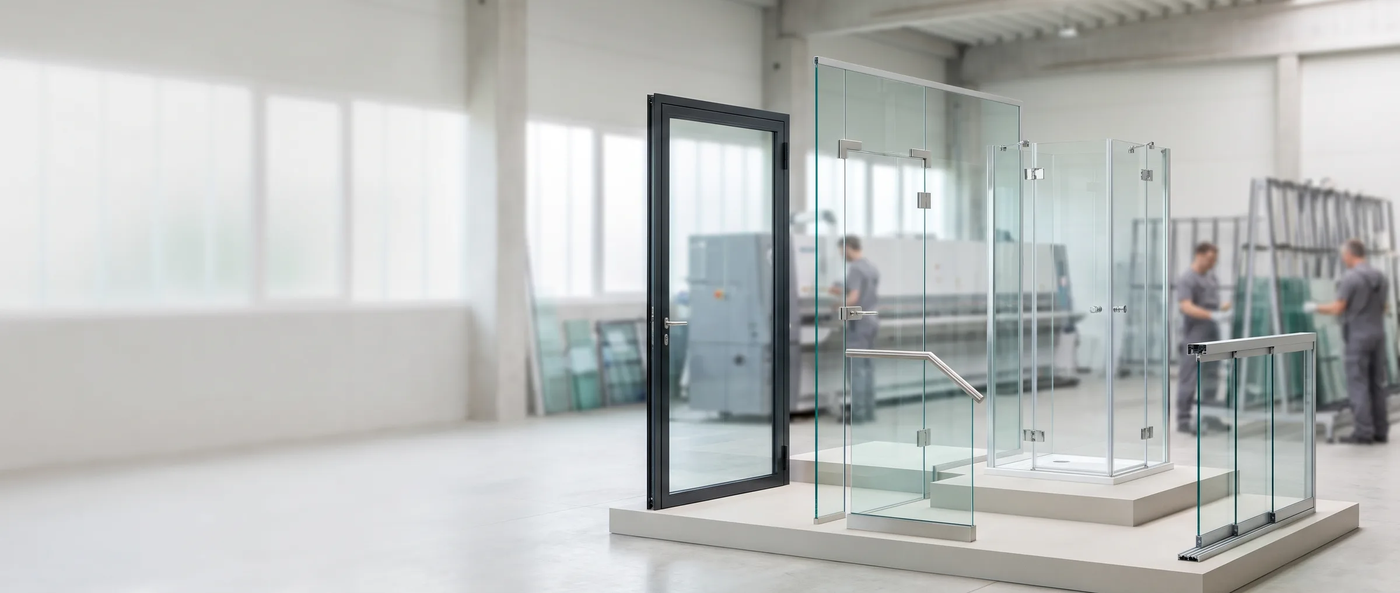
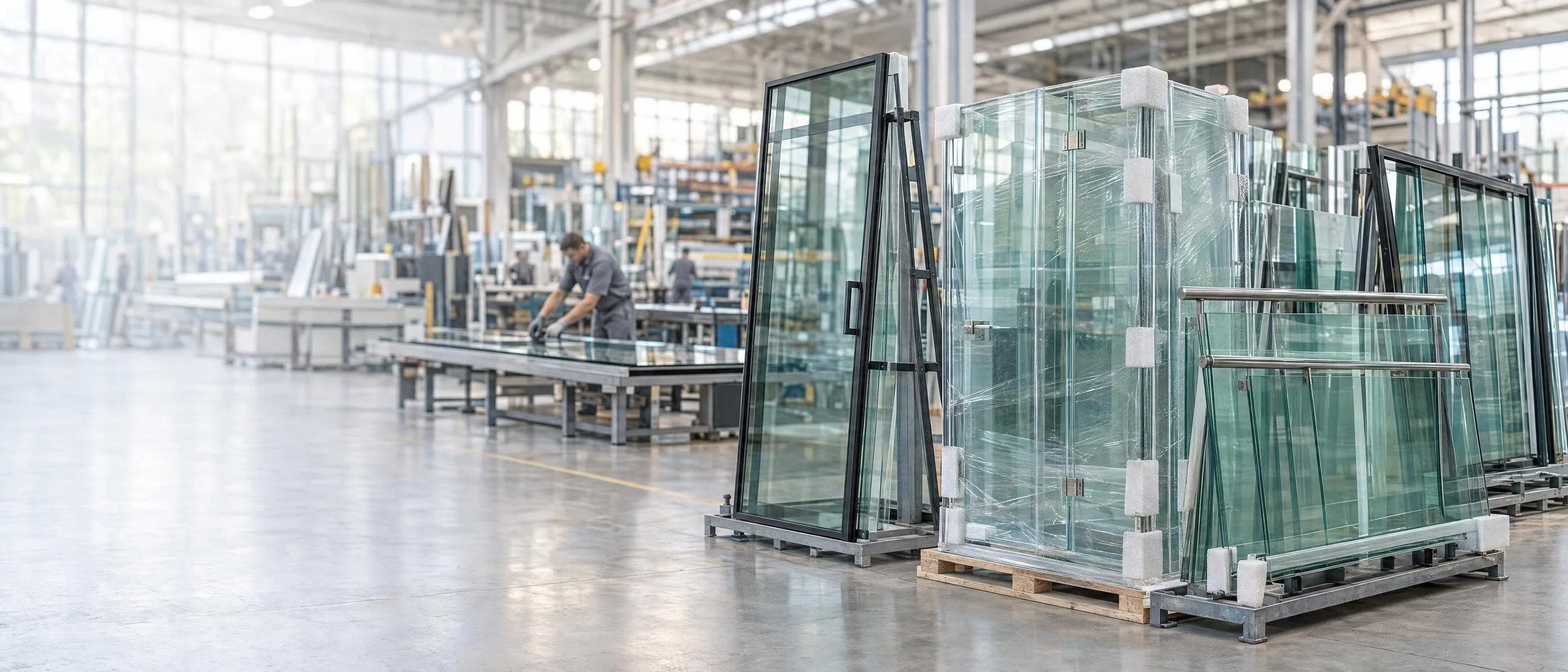
feat(home): client hero photo and «800 м² своё производство» stat
Replaces the generated hero image with the client photo (2688x1152) and the
«4–19 мм» hero stat with «800 м² / своё производство» (client request 2026-11-14).

diff --git a/src/seed/content/home.ts b/src/seed/content/home.ts
@@ -41,14 +41,15 @@ export const HOME_HERO = {
   stats: [
     { value: "21 год", text: "опыт специалистов Inex" },
     { value: "1500+", text: "проектов по всей России" },
-    { value: "4–19 мм", text: "толщины закалённого стекла" },
+    // Client request of 2026-11-14 (replaces «4–19 мм / толщины закалённого стекла»).
+    { value: "800 м²", text: "своё производство" },
   ],
   quizLabel: "Рассчитать стоимость",
   drawingLabel: "Отправить чертёж",
-  /** Wide hero photo (`src/seed/media/home/`, 21:9): client request of 2026-11-10. */
+  /** Wide hero photo (`src/seed/media/home/`, 21:9): client photo of 2026-11-13. */
   image: { group: "home", file: "hero.webp" },
   imageAlt:
-    "Готовые изделия из стекла в цехе: дверь в тонкой чёрной алюминиевой раме, перегородка, душевое ограждение, лестничное ограждение и раздвижная терраса",
+    "Готовые стеклянные конструкции в цехе: двери в чёрной раме и упакованные стеклянные изделия на стойках для отгрузки",
 } as const;
 
 /**
@@ -392,8 +393,11 @@ export const HOME_CLIENT_APPROVED_STRINGS: readonly string[] = [
   // Installation wording decided by the client on 2026-11-09, site-wide.
   HOME_STEPS.footnote,
   HOME_CONSTRUCTIONS.sub,
-  // Alt of the wide hero photo of 2026-11-10 (describes the photo, not page copy).
+  // Alt of the wide hero photo (describes the photo, not page copy).
   HOME_HERO.imageAlt,
+  // Hero stat requested by the client on 2026-11-14.
+  HOME_HERO.stats[2].value,
+  HOME_HERO.stats[2].text,
   // «Проектирование» and «Производство» of the Paper mockup (2026-11-12).
   HOME_DESIGN.eyebrow,
   HOME_DESIGN.heading,
